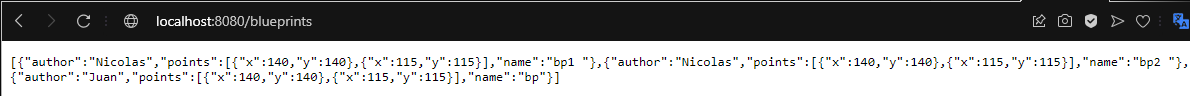
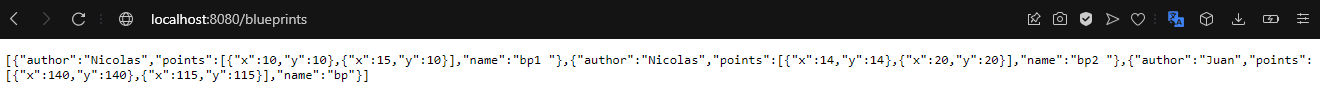
parte 1 punto 4

diff --git a/src/main/java/edu/eci/arsw/blueprints/persistence/impl/InMemoryBlueprintPersistence.java b/src/main/java/edu/eci/arsw/blueprints/persistence/impl/InMemoryBlueprintPersistence.java
@@ -32,8 +32,8 @@ public class InMemoryBlueprintPersistence implements BlueprintsPersistence{
         Point[] pts1=new Point[]{new Point(10, 10),new Point(15, 10)};
         Point[] pts2=new Point[]{new Point(14, 14),new Point(20, 20)};
         Blueprint bp=new Blueprint("Juan", "bp",pts);
-        Blueprint bp1=new Blueprint("Nicolas", "bp1 ",pts);
-        Blueprint bp2=new Blueprint("Nicolas", "bp2 ",pts);
+        Blueprint bp1=new Blueprint("Nicolas", "bp1 ",pts1);
+        Blueprint bp2=new Blueprint("Nicolas", "bp2 ",pts2);
         blueprints.put(new Tuple<>(bp.getAuthor(),bp.getName()), bp);
         blueprints.put(new Tuple<>(bp1.getAuthor(),bp1.getName()), bp1);
         blueprints.put(new Tuple<>(bp2.getAuthor(),bp2.getName()), bp2);

diff --git a/README.md b/README.md
@@ -188,7 +188,7 @@ public class BlueprintAPIController {
 	```
 	Y luego enviando una petición GET a: http://localhost:8080/blueprints. Rectifique que, como respuesta, se obtenga un objeto jSON con una lista que contenga el detalle de los planos suministados por defecto, y que se haya aplicado el filtrado de puntos correspondiente.
 
-	![](img/Parte1Punto4.png)
+   ![](img/Parte1Punto4.png)
 
 5. Modifique el controlador para que ahora, acepte peticiones GET al recurso /blueprints/{author}, el cual retorne usando una representación jSON todos los planos realizados por el autor cuyo nombre sea {author}. Si no existe dicho autor, se debe responder con el código de error HTTP 404. Para esto, revise en [la documentación de Spring](http://docs.spring.io/spring/docs/current/spring-framework-reference/html/mvc.html), sección 22.3.2, el uso de @PathVariable. De nuevo, verifique que al hacer una petición GET -por ejemplo- a recurso http://localhost:8080/blueprints/juan, se obtenga en formato jSON el conjunto de planos asociados al autor 'juan' (ajuste esto a los nombres de autor usados en el punto 2).
 
